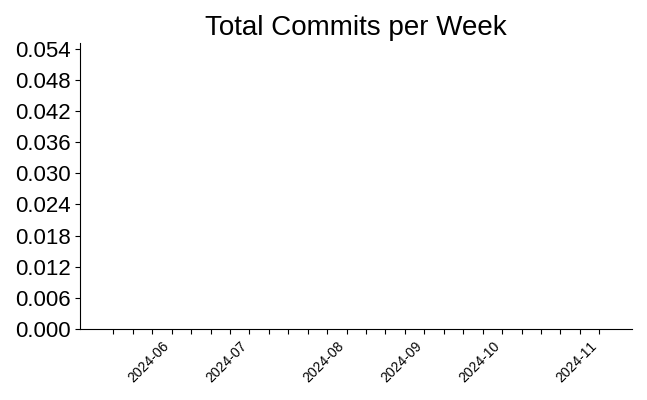
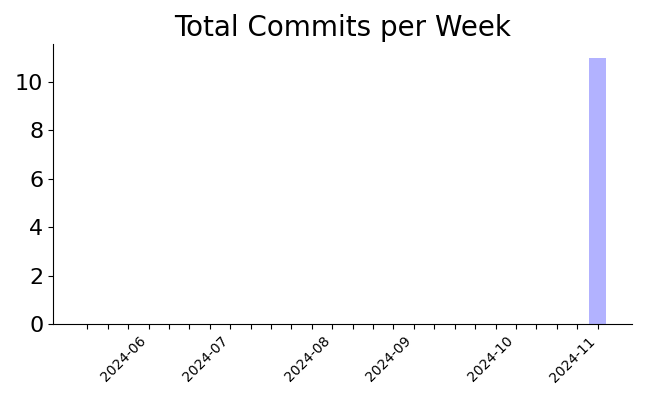
fixed: date treatment in a python scripts

Changed region(s): [[0.0, 0.15, 0.9892, 0.96], [0.2782, 0.03, 0.8037, 0.12], [0.0309, 0.09, 0.1236, 0.15]]

diff --git a/.github/scripts/generate_commit_graph.py b/.github/scripts/generate_commit_graph.py
@@ -23,8 +23,8 @@ def get_weekly_dates():
     weeks = []
     current = start_date
     while current <= end_date:
-        week_str = current.strftime("%Y-%m-%d")
-        weeks.append(week_str)
+        week_start = current - timedelta(days=current.weekday())
+        weeks.append(week_start.strftime("%Y-%m-%d"))
         # move to next week
         current += timedelta(days=7)
     return weeks
